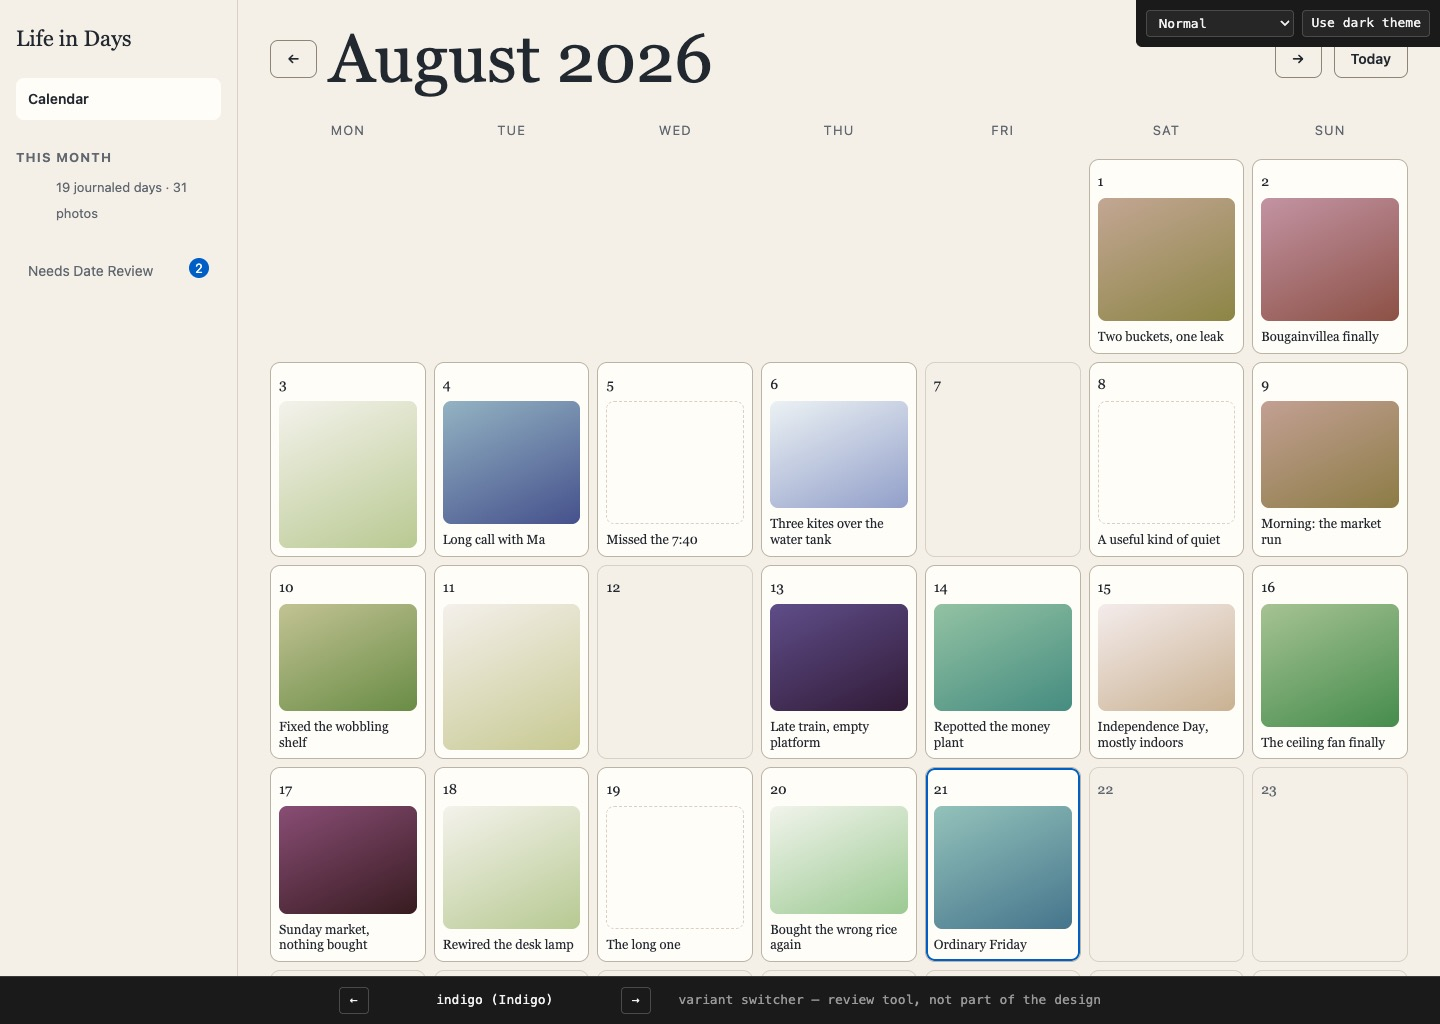
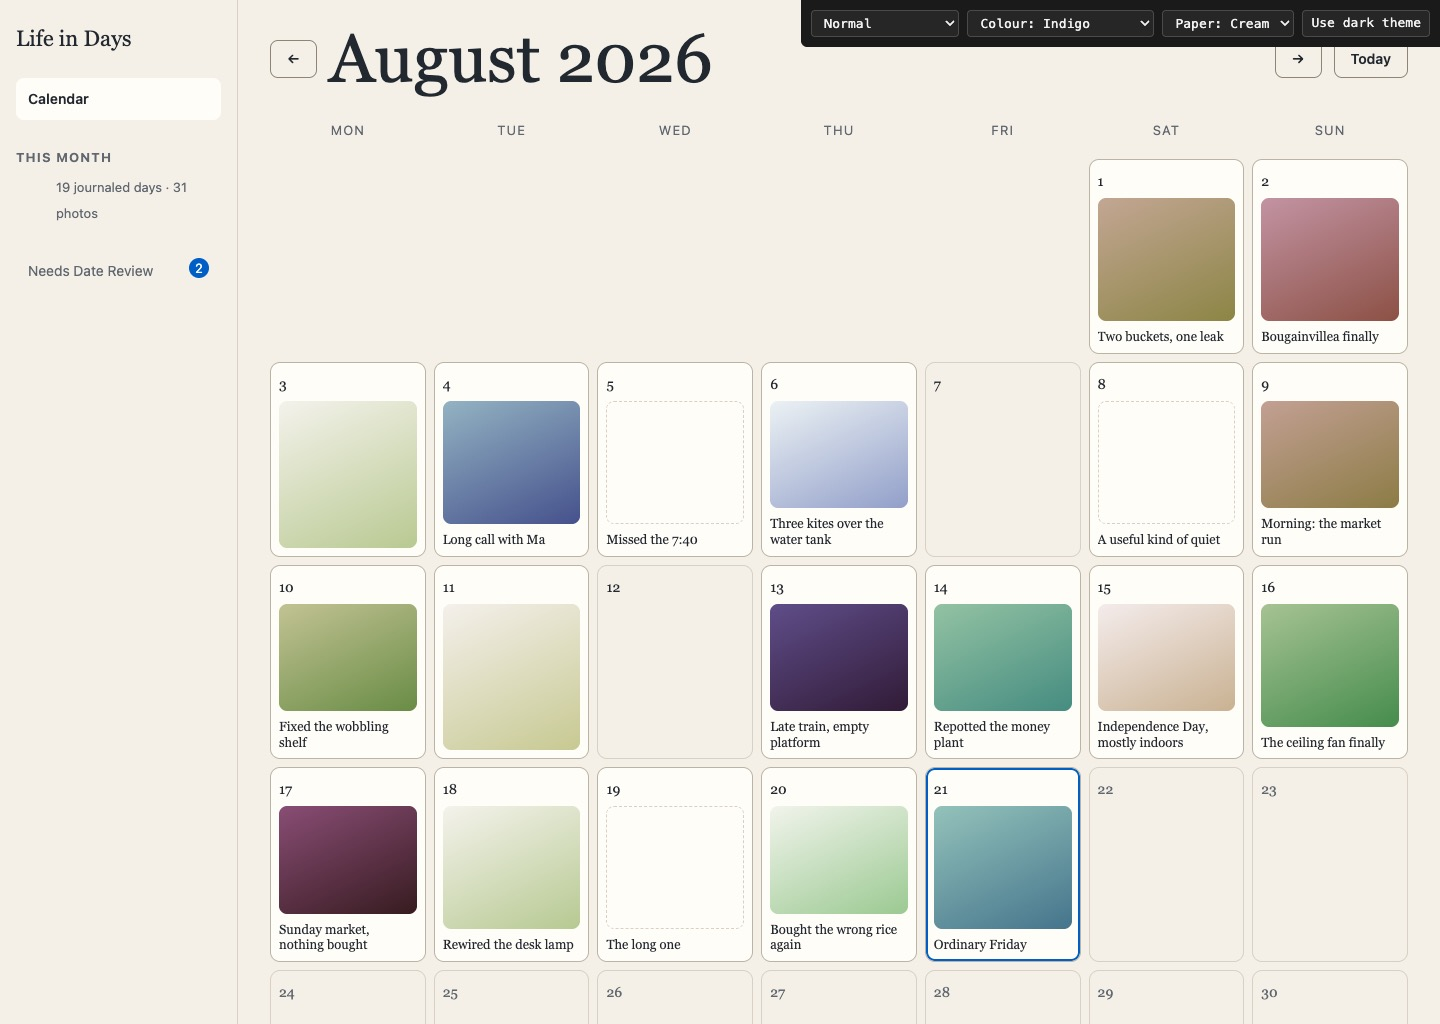
Fix: colour-theme picker was an arrow-bar, not a dropdown -- unfindable
Owner reported not being able to find "the four-colour theme picker
as an independent dropdown." Verified first rather than assuming: the
DOM was correct and the mechanism worked (confirmed via direct query),
but it was the floating bottom arrow-bar from _shared/switcher.js, not
a dropdown -- inconsistent with the paper-theme picker, which already
was one. That inconsistency is the actual bug, even though nothing
was broken.

Replaced the arrow-bar with a "Colour theme" <select> in the same
top-right controls cluster as "Paper theme", synced to the same
?variant= URL param. Removed switcher.js from M1's index.html (still
available in _shared/ for a future milestone's genuine structural-
variant comparison; the settled four-colour-theme picker isn't that).

Two more real bugs found while fixing this one, both by rendering, not
assuming:
- The dropdown's own text was clipped ("Colour: Apple gree...") at the
  old 150px control max-width -- widened to 200px rather than
  shortening the honest theme name.
- Adding a third/fourth control made the top-right bar wrap to two
  rows at 375px (~82px tall), which the existing padding-top:64px
  rail reservation (tuned for one row) no longer cleared -- "Life in
  Days" was hidden behind it again, the same class of bug fixed
  earlier this session. Bumped to 100px, measured against the actual
  rendered height, not guessed.

Re-verified end-to-end: dropdown change updates the DOM attribute, the
[…]

Changed region(s): [[0.0, 0.9375, 1.0, 1.0], [0.5312, 0.0, 0.875, 0.0625]]

diff --git a/prototypes/m1-calendar-shell/app.js b/prototypes/m1-calendar-shell/app.js
@@ -1,9 +1,12 @@
 /* Life in Days — M1 Calendar shell + month view
  * PROTOTYPE ARTIFACT · fictional data · in-memory only · not production.
  * Milestone: M1. Issues: #187, #189, #195.
- * Shell is Editorial (approved 2026-08-21). The switcher now cycles COLOR
- * THEMES, not structure — the owner asked to hold the shell fixed and
- * explore --brand-hue. See docs/design/M1-BUILD-INSTRUCTIONS.md.
+ * Shell is Editorial (approved 2026-08-21) and fixed. Colour theme and
+ * paper theme are independent dropdowns in the top-right controls, not
+ * the floating arrow-bar switcher (_shared/switcher.js) — that pattern
+ * is for comparing radically different options live; these four-theme
+ * choices are settled enough that a dropdown is the honest UI for them.
+ * See docs/design/M1-BUILD-INSTRUCTIONS.md.
  */
 
 const WEEKDAYS = ['Mon', 'Tue', 'Wed', 'Thu', 'Fri', 'Sat', 'Sun'];
@@ -325,6 +328,13 @@ function initControls() {
       <option value="loading">Loading</option>
       <option value="error">Failed to load</option>
     </select>
+    <label class="visually-hidden" for="lid-colortheme">Colour theme</label>
+    <select id="lid-colortheme" title="Colour theme — accent, ink, and dark-mode canvas">
+      <option value="apple">Colour: Apple green</option>
+      <option value="sage">Colour: Sage</option>
+      <option value="indigo">Colour: Indigo</option>
+      <option value="plum">Colour: Plum</option>
+    </select>
     <label class="visually-hidden" for="lid-paper">Paper theme</label>
     <select id="lid-paper" title="Paper theme — light mode only, dark canvas follows the colour theme instead">
       <option value="cream">Paper: Cream</option>
@@ -339,6 +349,17 @@ function initControls() {
     state.demo = e.target.value;
     if (state.demo === 'single-day') state.monthKey = '2026-08';
     render();
+  });
+  const colorSelect = wrap.querySelector('#lid-colortheme');
+  const initialParams = new URLSearchParams(location.search);
+  const initialColor = initialParams.get('variant') || 'apple';
+  colorSelect.value = initialColor;
+  document.documentElement.dataset.colorTheme = initialColor;
+  colorSelect.addEventListener('change', (e) => {
+    document.documentElement.dataset.colorTheme = e.target.value;
+    const p = new URLSearchParams(location.search);
+    p.set('variant', e.target.value);
+    history.replaceState(null, '', `${location.pathname}?${p.toString()}`);
   });
   const paperSelect = wrap.querySelector('#lid-paper');
   const params = new URLSearchParams(location.search);
@@ -358,19 +379,6 @@ function initControls() {
   });
 }
 
-/* ---------- chrome: colour-theme switcher (the axis under review now) ---------- */
-
-const COLOR_THEMES = [
-  { key: 'apple',  name: 'Apple green' },
-  { key: 'sage',   name: 'Sage' },
-  { key: 'indigo', name: 'Indigo' },
-  { key: 'plum',   name: 'Plum' }
-];
-
-function applyColorTheme(theme) {
-  document.documentElement.dataset.colorTheme = theme.key;
-}
-
 function boot() {
   const params = new URLSearchParams(location.search);
   const day = params.get('day');
@@ -380,4 +388,3 @@ function boot() {
 
 initControls();
 boot();
-initSwitcher(COLOR_THEMES, applyColorTheme);

diff --git a/prototypes/m1-calendar-shell/index.html b/prototypes/m1-calendar-shell/index.html
@@ -3,9 +3,9 @@
   Life in Days — M1 Calendar shell + month view
   PROTOTYPE ARTIFACT · fictional data · in-memory only · not production.
   Milestone: M1. Issues: #187 (tokens), #189 (calendar grid), #195 (keyboard nav).
-  Purpose: shell is Editorial (approved 2026-08-21) and now fixed; the
-  switcher cycles four --brand-hue colour themes (apple/sage/indigo/plum)
-  for owner review. See prototypes/m1-calendar-shell/README.md.
+  Purpose: shell is Editorial (approved 2026-08-21) and now fixed; colour
+  theme (apple/sage/indigo/plum) and paper theme (cream/linen/blush/fog)
+  are independent dropdowns, top-right. See README.md.
   Zero third-party requests. System fonts only.
   Run: cd prototypes && python3 -m http.server 4173 --bind 127.0.0.1
   Then open http://127.0.0.1:4173/m1-calendar-shell/?variant=apple
@@ -26,7 +26,6 @@
 <body>
 <div id="app"></div>
 <script src="../_shared/fixtures.js"></script>
-<script src="../_shared/switcher.js"></script>
 <script src="app.js"></script>
 </body>
 </html>

diff --git a/prototypes/m1-calendar-shell/variants.css b/prototypes/m1-calendar-shell/variants.css
@@ -156,5 +156,7 @@ body { padding: 0 0 56px; }
    and a same-specificity rule earlier in the file loses regardless of media
    nesting (UI-DESIGN-INSTRUCTIONS.md §4's classic cascade-order failure). */
 @media (max-width: 480px) {
-  .rail { padding-top: 64px; }
+  /* Measured, not guessed: with 4 controls the bar wraps to 2 rows here
+     (~82px). 64px was tuned for 2 controls/1 row — bumped with margin. */
+  .rail { padding-top: 100px; }
 }

diff --git a/prototypes/_shared/prototype-chrome.css b/prototypes/_shared/prototype-chrome.css
@@ -50,7 +50,7 @@
   border-radius: 4px;
   padding: 4px 8px;
   font: inherit;
-  max-width: 150px;
+  max-width: 200px;
 }
 .lid-controls button:focus-visible, .lid-controls select:focus-visible {
   outline: 2px solid #6fd6b0; outline-offset: 2px;
